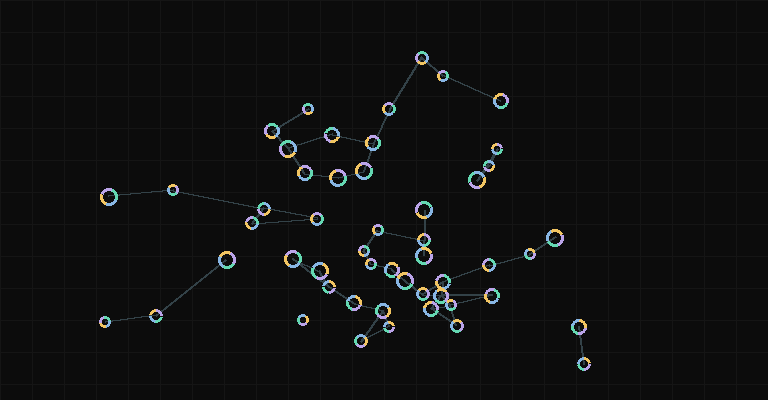
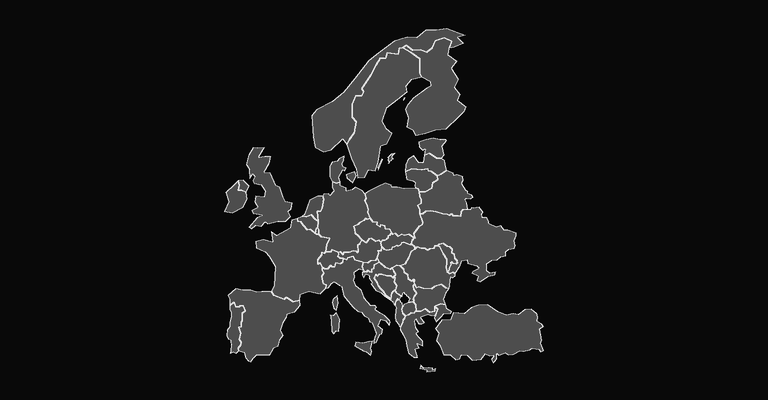
Fit selector images and show a geographic Europe preview

diff --git a/home.css b/home.css
@@ -1,12 +1,12 @@
 :root{color-scheme:dark;background:#000;color:#f4f4f4;font:16px/1.5 system-ui,sans-serif}
 *{box-sizing:border-box}
-body{min-height:100svh;margin:0;display:grid;place-items:center;padding:clamp(1.25rem,5vw,5rem)}
+body{min-height:100svh;margin:0;display:grid;grid-template-columns:minmax(0,1fr);place-items:center;padding:clamp(1.25rem,5vw,5rem)}
 main{width:min(100%,67rem)}
 h1{font-size:clamp(2.25rem,6vw,4.25rem);line-height:1.05;letter-spacing:-.055em;margin:0 0 2rem}
-nav{display:grid;grid-template-columns:repeat(auto-fit,minmax(min(100%,19rem),1fr));gap:1rem}
-nav a{display:grid;gap:1rem;align-content:start;padding:1.25rem;background:#0a0a0a;border:1px solid #303030;border-radius:.7rem;color:inherit;text-decoration:none}
-nav a:hover,nav a:focus-visible{border-color:#84dac6;background:#101010}
-nav a:focus-visible{outline:2px solid #84dac6;outline-offset:3px}
-nav img{display:block;width:100%;height:auto;border:1px solid #252525;border-radius:.45rem}
+nav{display:grid;min-width:0;grid-template-columns:repeat(auto-fit,minmax(min(100%,19rem),1fr));gap:1rem}
+nav a{display:grid;grid-template-columns:minmax(0,1fr);min-width:0;gap:1rem;align-content:start;padding:1.25rem;background:#0a0a0a;border:1px solid #303030;border-radius:.7rem;color:inherit;text-decoration:none}
+nav a:hover,nav a:focus-visible{border-color:#fff;background:#101010}
+nav a:focus-visible{outline:2px solid #fff;outline-offset:3px}
+nav img{display:block;width:100%;max-width:100%;height:auto;aspect-ratio:768/400;object-fit:contain;border:1px solid #252525;border-radius:.45rem}
 h2{margin:0;font-size:1.5rem}
 p{margin:0;color:#b1b1b1}

diff --git a/home.html b/home.html
@@ -4,14 +4,14 @@
   <meta charset="utf-8">
   <meta name="viewport" content="width=device-width, initial-scale=1">
   <title>Power Market Dashboards</title>
-  <link rel="stylesheet" href="./home.css">
+  <link rel="stylesheet" href="./home.css?v=2">
 </head>
 <body>
   <main>
     <h1>Power Market Dashboards</h1>
     <nav aria-label="Choose a power market">
       <a href="./index.html"><h2>ERCOT</h2><img src="./ercot-preview.png" alt="" width="768" height="400"><p>Texas market prices, grid conditions, and historical analysis</p></a>
-      <a href="http://127.0.0.1:4173/"><h2>Europe</h2><img src="./europe-preview.png" alt="" width="768" height="400"><p>Bidding-zone prices, generation mix, demand, and cross-border flows</p></a>
+      <a href="http://127.0.0.1:4173/"><h2>Europe</h2><img src="./europe-preview.png?v=2" alt="" width="768" height="400"><p>Bidding-zone prices, generation mix, demand, and cross-border flows</p></a>
     </nav>
   </main>
 </body>
